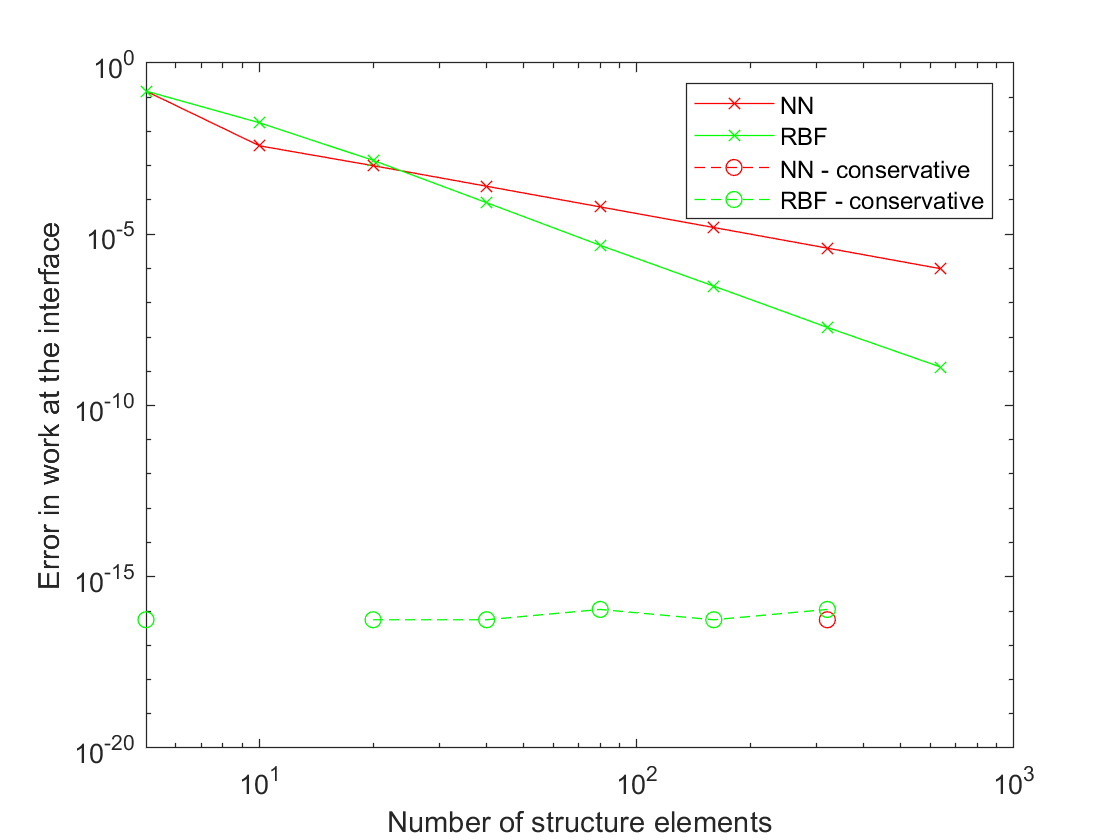
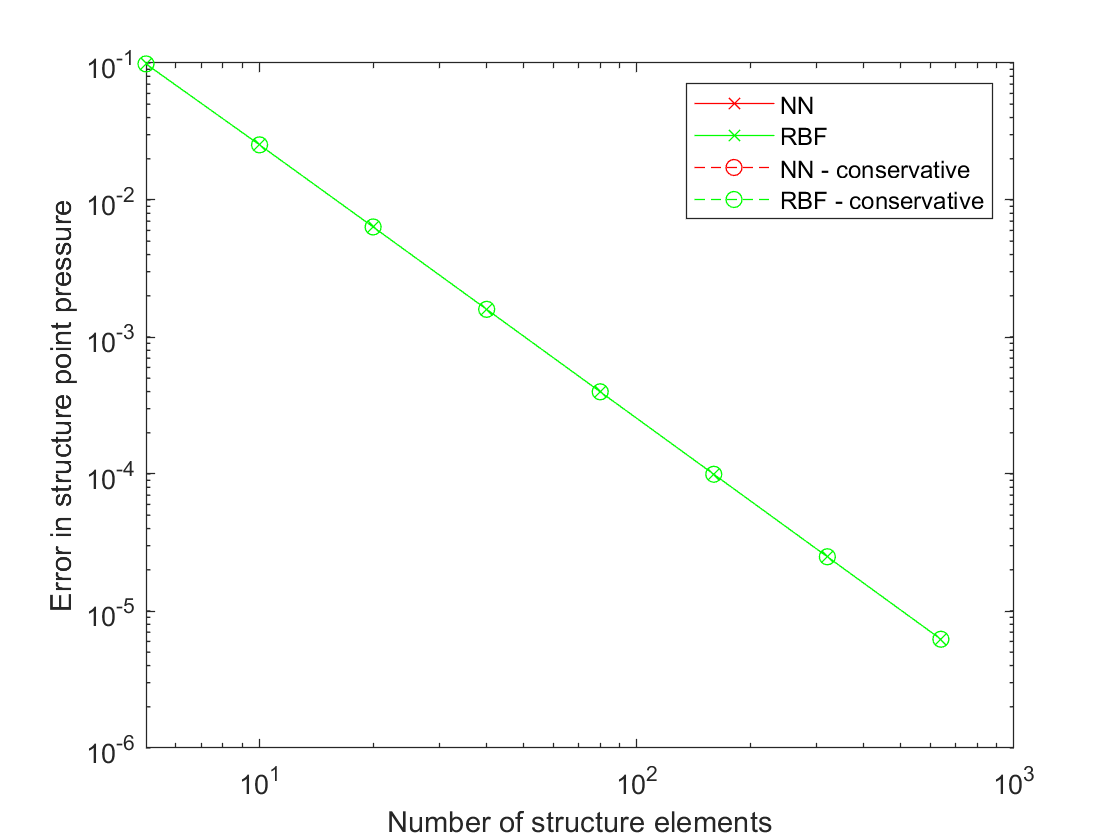
updated plots (assignment 2)

diff --git a/assignment_2/Analytic/Analyt.m b/assignment_2/Analytic/Analyt.m
@@ -301,13 +301,16 @@ err_Ps_RBF_cv = norm(interp1(Xs(:,1),Ps_RBF_cv,Xi,'linear')-Df_ex)/sqrt(Nfine);
 % Compute the work on the interface on the fluid side and the structure
 % side and store the error in the conservation of work over the interface
 err_dW_NN     = abs( (Mf*Pf)' * Df_NN  -  (Ms*Ps_NN)' * Ds );
-err_dW_NN_cv  = abs( (Mf*Pf)' * Df_NN  -  (Ms*Ps_NN_cv)' * Ds ); % UNSURE if it should be (in that case, compute conservative disp. of fluid): err_dW_NN_cv  = abs( (Mf*Pf)' * Df_NN_cv  -  (Ms*Ps_NN_cv)' * Ds );
+err_dW_NN_cv  = abs( (Mf*Pf)' * Df_NN  -  (Ms*Ps_NN_cv)' * Ds ); 
 err_dW_RBF    = abs( (Mf*Pf)' * Df_RBF  -  (Ms*Ps_RBF)' * Ds ); 
 err_dW_RBF_cv = abs( (Mf*Pf)' * Df_RBF  -  (Ms*Ps_RBF_cv)' * Ds ); % UNSURE if it should be (in that case, compute conservative disp. of fluid): err_dW_RBF_cv = abs( (Mf*Pf)' * Df_RBF_cv  -  (Ms*Ps_RBF_cv)' * Ds ); 
 
 
-plotRowSums(HsfRBF);
-plotRowSums(HfsRBF);
+%plotRowSums(HsfNN);
+%plotRowSums(HfsRBF);
+
+%heatmap(HsfNN);
+%heatmap(HsfRBF);
 
 %% Plot Row-sum
 function plotRowSums(matrix)

diff --git a/assignment_2/Analytic/Loop.m b/assignment_2/Analytic/Loop.m
@@ -17,7 +17,7 @@ for iref=1:8
     % Determine the number of structure ans fluid mesh points (multiply by
     % 2 for every new refinement level)
     Ns = 5*2^(iref-1)+1;
-    Nf = 7*2^(iref-1)+1;
+    Nf = 5*2^(iref-1)+1;
     
     Analyt;
     

diff --git a/assignment_2/MeshDef/movemesh.m b/assignment_2/MeshDef/movemesh.m
@@ -1,4 +1,4 @@
-function nodesNew = movemesh(nodes,disp)
+    function nodesNew = movemesh(nodes,disp)
     
     Nb = sum(disp(:,1));       % boundary points (constraints)
     Ni = length(disp(:,1))-Nb; % internal points
